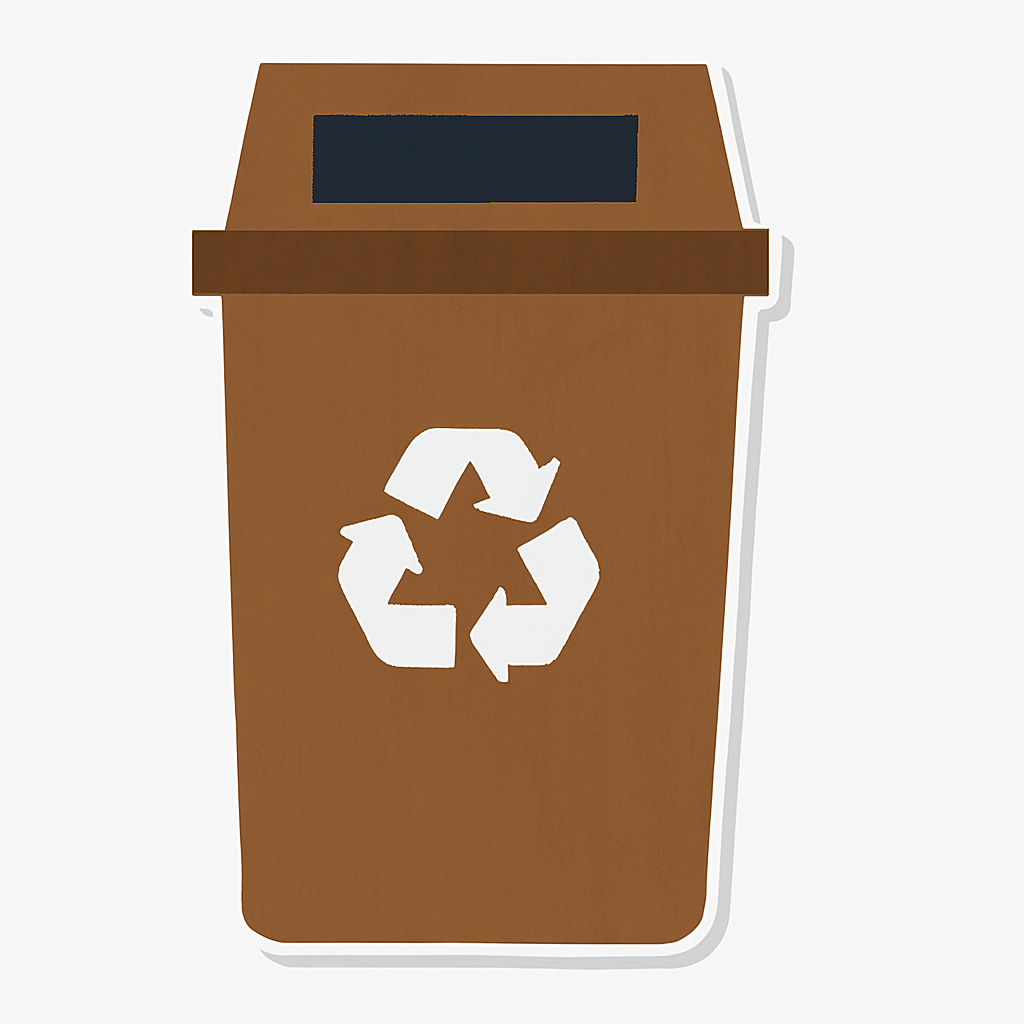
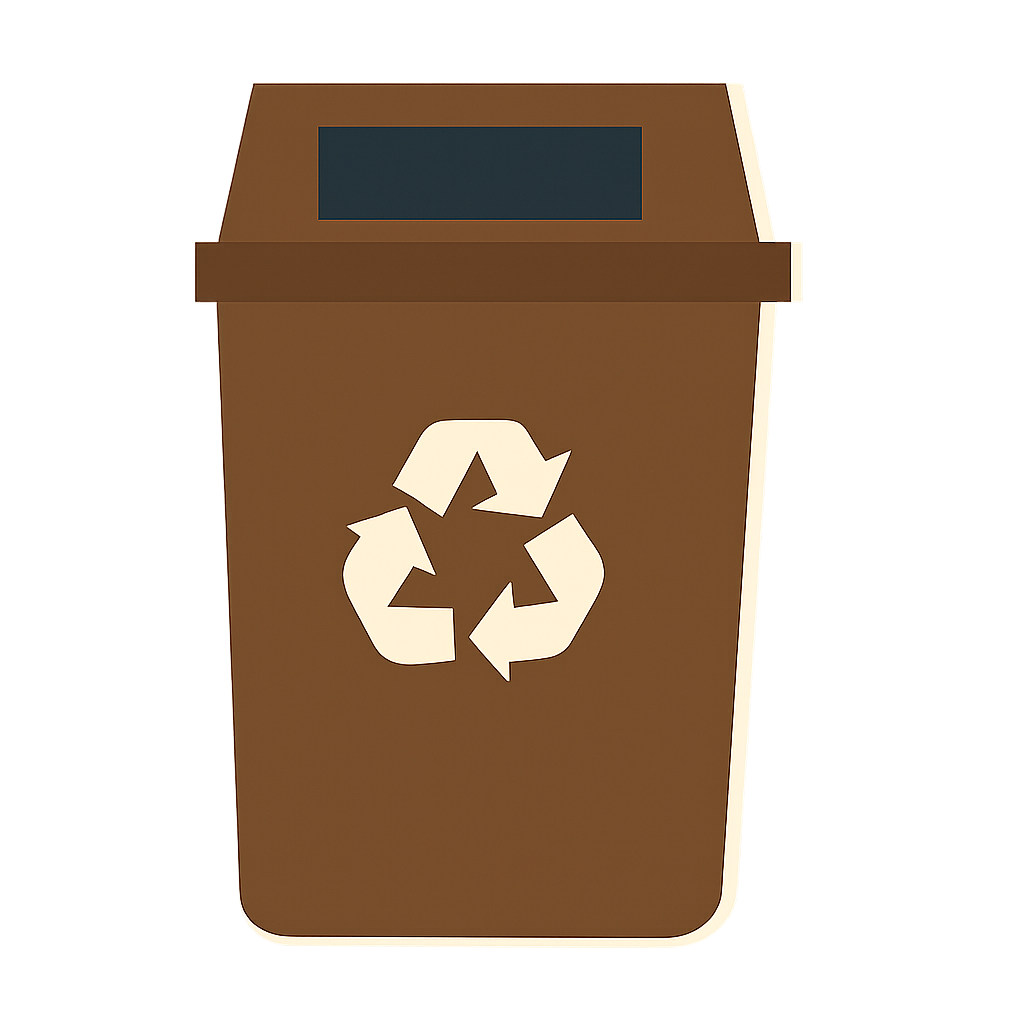
agregue todas las imagenes de residuos y cambie las de los contenedores

Changed region(s): [[0.1875, 0.0625, 0.7812, 0.9688], [0.3125, 0.4062, 0.5938, 0.6875]]

diff --git a/app-reciclaje/src/components/GameComp.jsx b/app-reciclaje/src/components/GameComp.jsx
@@ -30,14 +30,28 @@ function Draggable({ id, name, img }) {
       }}
       {...listeners}
       {...attributes}
-      className="p-2 m-2 cursor-grab select-none flex flex-col items-center w-24"
-      initial={{ scale: 0.8, opacity: 0 }}
-      animate={{ scale: 1, opacity: 1 }}
-      whileTap={{ scale: 1.1 }}
-      transition={{ type: "spring", stiffness: 300, damping: 20 }}
+      className="p-4 m-3 cursor-grab select-none flex flex-col items-center w-28 
+               bg-gradient-to-br from-purple-500/20 to-pink-500/20 
+               rounded-xl shadow-lg backdrop-blur-sm border border-white/20"
+      initial={{ scale: 1, opacity: 0 }}
+      animate={{ scale: 1.2, opacity: 1 }}
+      whileHover={{
+        scale: 1.05,
+        boxShadow: "0px 10px 25px rgba(0, 0, 0, 0.25)",
+      }}
+      whileTap={{ scale: 0.95 }}
+      transition={{ type: "spring", stiffness: 250, damping: 15 }}
     >
-      <img src={img} alt={name} className="w-16 h-16 object-contain mb-1" />
-      <span className="text-sm text-center">{name}</span>
+      <motion.img
+        src={img}
+        alt={name}
+        className="w-36 h-36 object-contain drop-shadow-lg"
+        whileHover={{ rotate: 3, scale: 1.08 }}
+        transition={{ type: "spring", stiffness: 200 }}
+      />
+      <span className="text-sm text-center font-semibold text-gray-800 drop-shadow-sm">
+        {name}
+      </span>
     </motion.div>
   );
 }
@@ -48,14 +62,24 @@ function Droppable({ id, name, color, img }) {
   return (
     <motion.div
       ref={setNodeRef}
-      className={`${color} p-4 m-2 rounded min-h-[120px] flex flex-col items-center justify-center text-black font-bold text-lg`}
-      animate={{
-        filter: "none", 
+      className={`${color} p-4 m-3 rounded-xl min-h-[140px] 
+                 flex flex-col items-center justify-center 
+                 text-black font-bold text-lg shadow-lg border border-white/20`}
+      whileHover={{
+        scale: 1.03,
+        boxShadow: "0px 12px 30px rgba(0,0,0,0.2)",
       }}
-      transition={{ duration: 0.3 }}
+      whileTap={{ scale: 0.97 }}
+      transition={{ type: "spring", stiffness: 200, damping: 15 }}
     >
-      <img src={img} alt={`${name} container`} className="w-24 h-24 mb-2" />
-      {name}
+      <motion.img
+        src={img}
+        alt={`${name} container`}
+        className="w-24 h-24 mb-1 drop-shadow-md"
+        whileHover={{ scale: 1.05 }}
+        transition={{ type: "spring", stiffness: 200 }}
+      />
+      <span className="drop-shadow-sm">{name}</span>
     </motion.div>
   );
 }
@@ -66,7 +90,7 @@ export default function GameComp() {
   const [message, setMessage] = useState("");
   const [corrects, setCorrects] = useState(0);
   const [placedResidues, setPlacedResidues] = useState([]);
-  const [gameOver, setGameOver] = useState(false); 
+  const [gameOver, setGameOver] = useState(false);
   const navigate = useNavigate();
 
   // Nivel actual
@@ -188,9 +212,7 @@ export default function GameComp() {
       </div>
 
       <AnimatePresence>
-        {gameOver && (
-          <GameOver onRestart={handleRestart} onHome={handleHome} />
-        )}
+        {gameOver && <GameOver onRestart={handleRestart} onHome={handleHome} />}
       </AnimatePresence>
     </div>
   );
